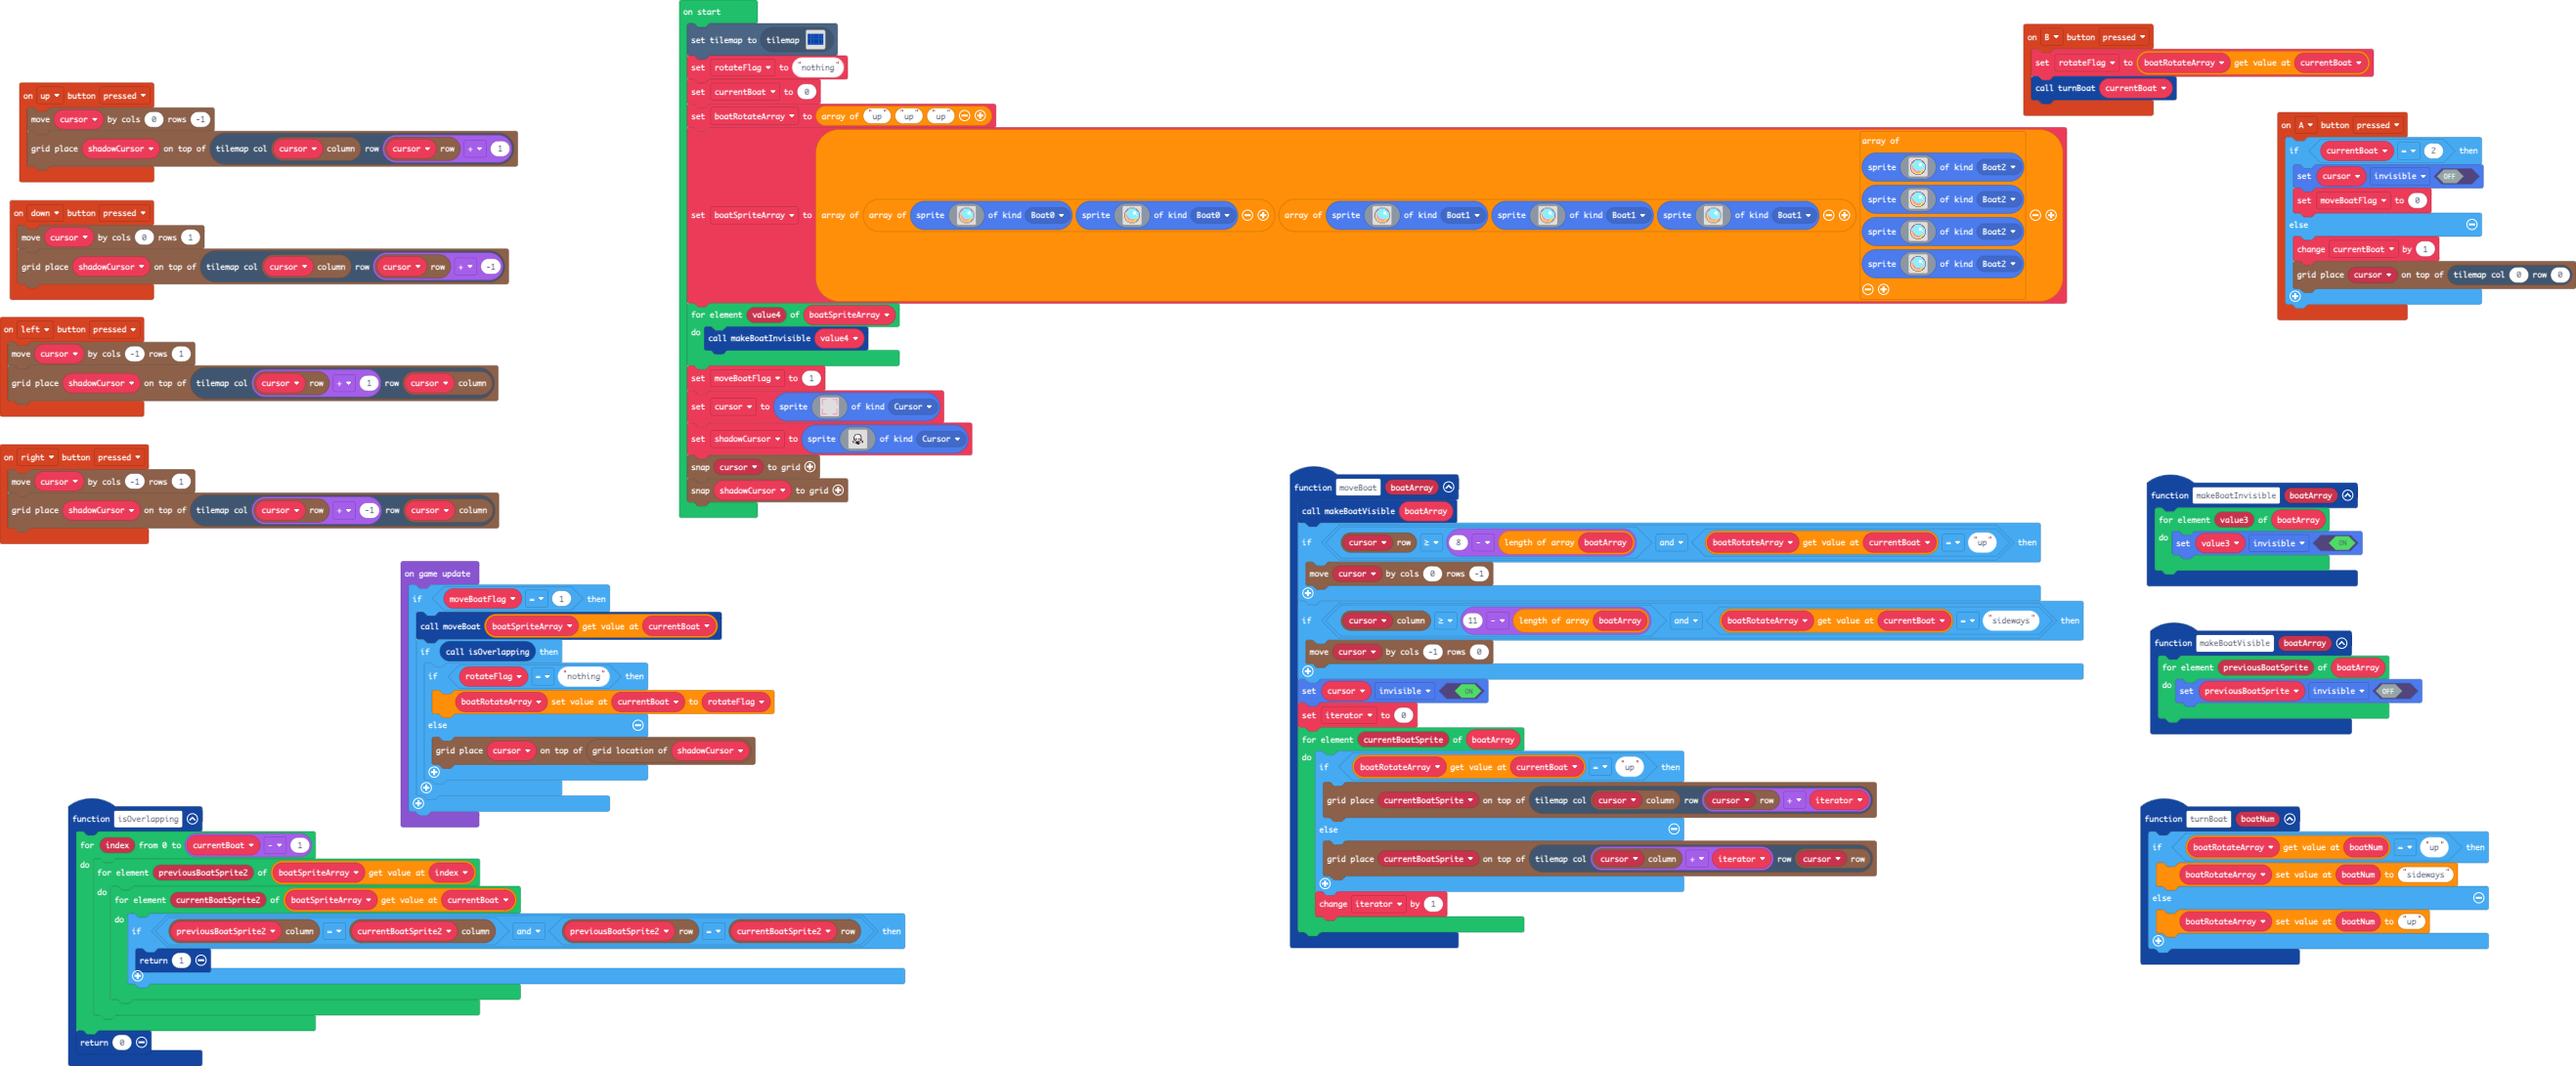
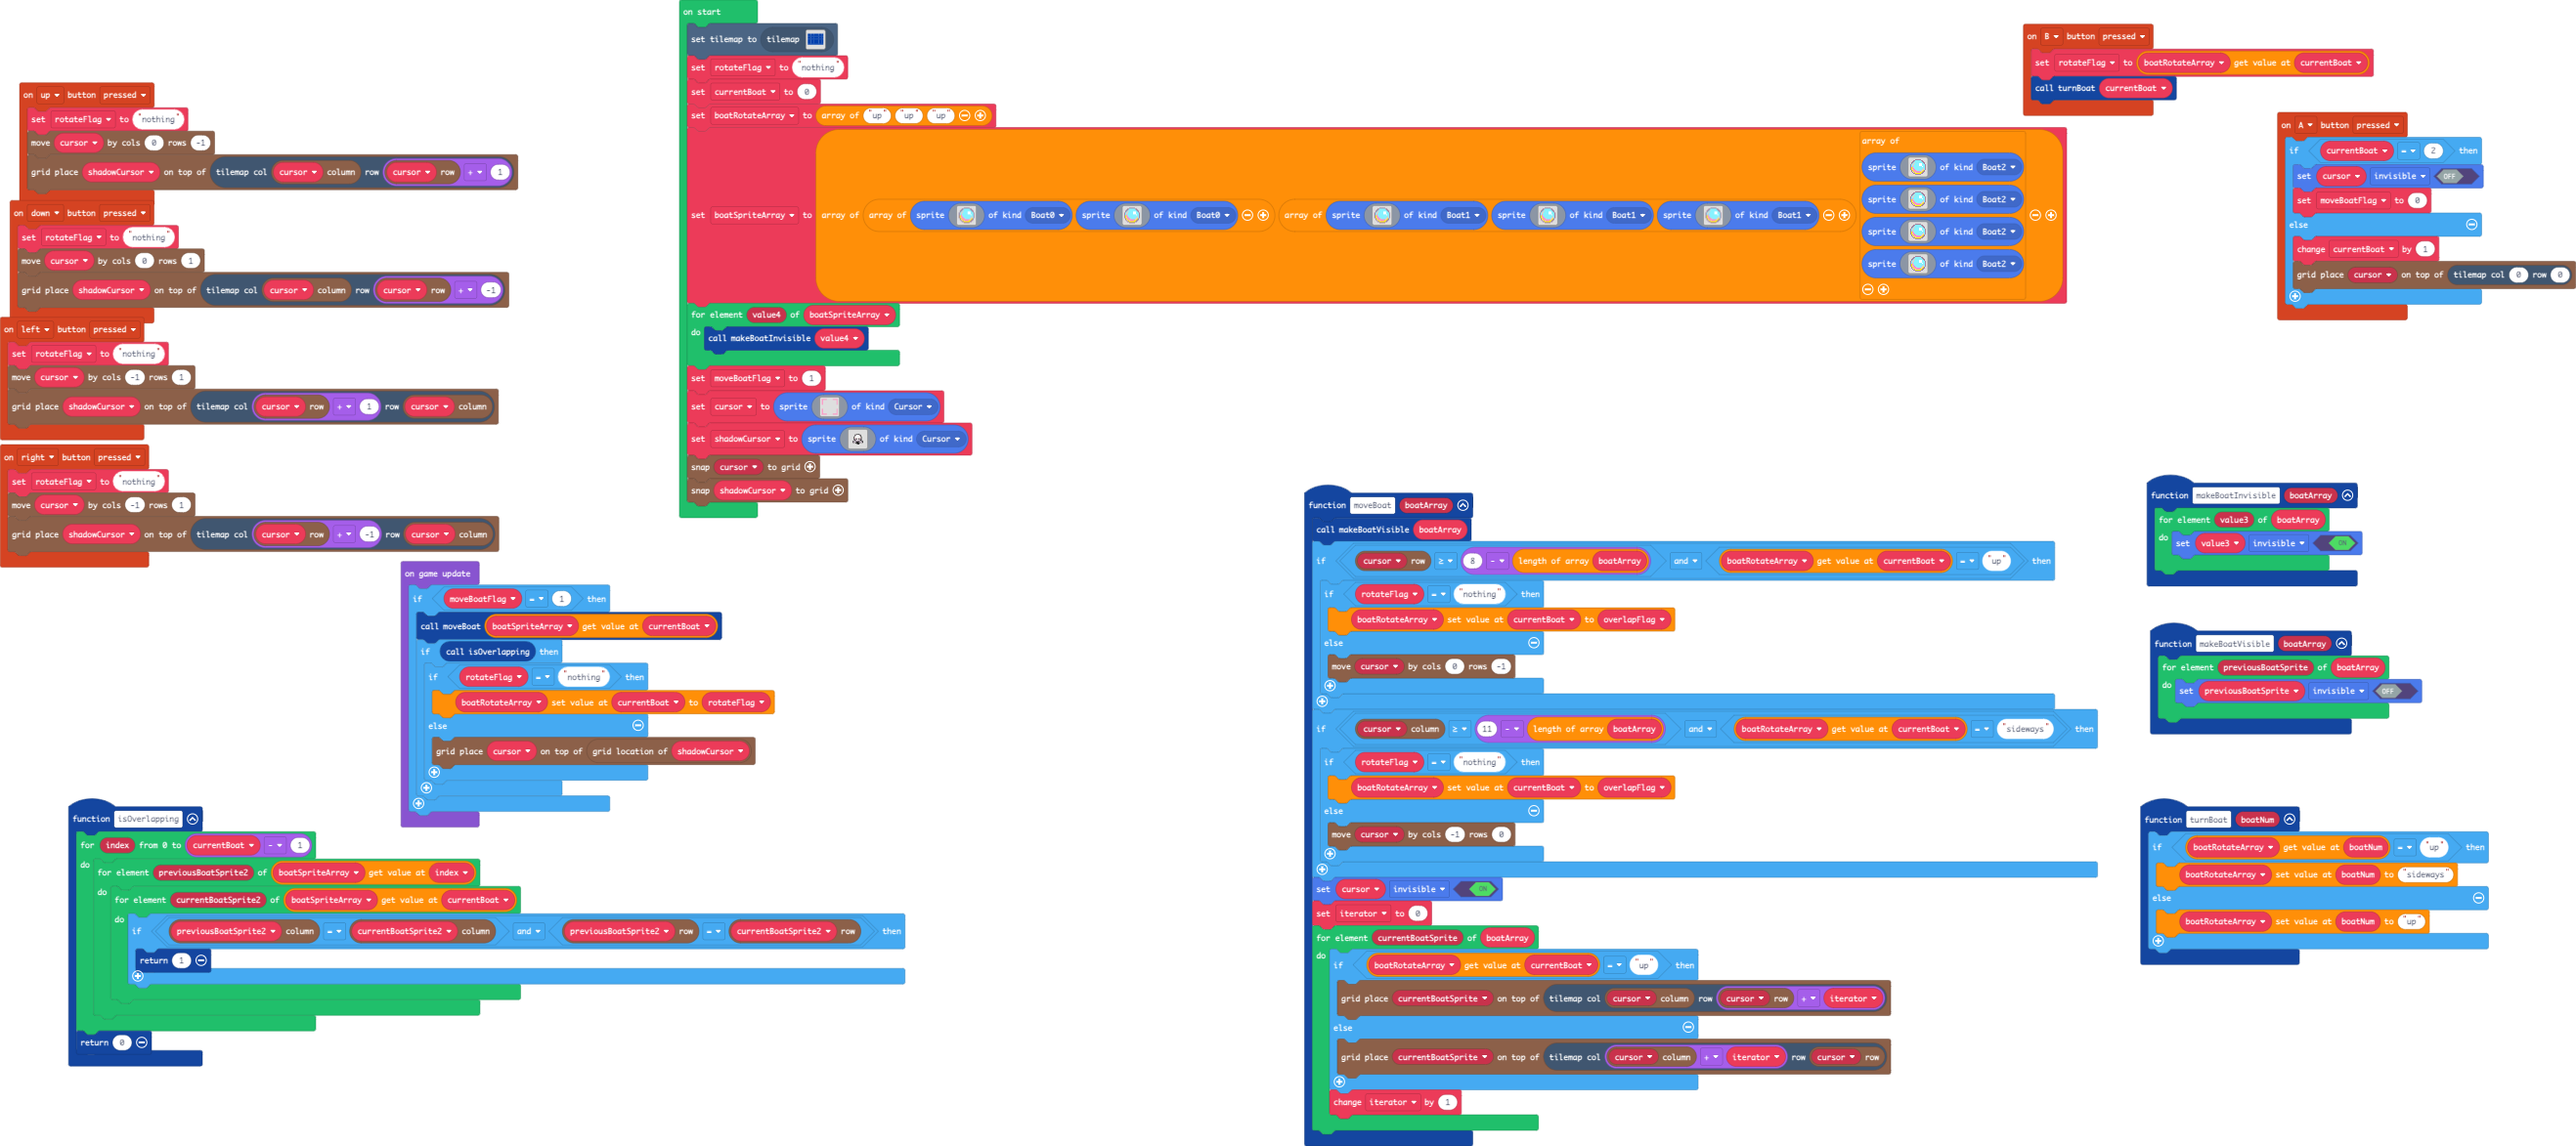
fixed rotate bug (bottom screen)

diff --git a/main.ts b/main.ts
@@ -5,6 +5,7 @@ namespace SpriteKind {
     export const Boat2 = SpriteKind.create()
 }
 controller.up.onEvent(ControllerButtonEvent.Pressed, function () {
+    rotateFlag = "nothing"
     grid.move(cursor, 0, -1)
     grid.place(shadowCursor, tiles.getTileLocation(grid.spriteCol(cursor), grid.spriteRow(cursor) + 1))
 })
@@ -27,20 +28,31 @@ controller.A.onEvent(ControllerButtonEvent.Pressed, function () {
     }
 })
 controller.left.onEvent(ControllerButtonEvent.Pressed, function () {
+    rotateFlag = "nothing"
     grid.move(cursor, -1, 1)
     grid.place(shadowCursor, tiles.getTileLocation(grid.spriteRow(cursor) + 1, grid.spriteCol(cursor)))
 })
 controller.right.onEvent(ControllerButtonEvent.Pressed, function () {
+    rotateFlag = "nothing"
     grid.move(cursor, -1, 1)
     grid.place(shadowCursor, tiles.getTileLocation(grid.spriteRow(cursor) + -1, grid.spriteCol(cursor)))
 })
 function moveBoat (boatArray: any[]) {
+    let overlapFlag = ""
     makeBoatVisible(boatArray)
     if (grid.spriteRow(cursor) >= 8 - boatArray.length && boatRotateArray[currentBoat] == "up") {
-        grid.move(cursor, 0, -1)
+        if (rotateFlag == "nothing") {
+            boatRotateArray[currentBoat] = overlapFlag
+        } else {
+            grid.move(cursor, 0, -1)
+        }
     }
     if (grid.spriteCol(cursor) >= 11 - boatArray.length && boatRotateArray[currentBoat] == "sideways") {
-        grid.move(cursor, -1, 0)
+        if (rotateFlag == "nothing") {
+            boatRotateArray[currentBoat] = overlapFlag
+        } else {
+            grid.move(cursor, -1, 0)
+        }
     }
     cursor.setFlag(SpriteFlag.Invisible, true)
     iterator = 0
@@ -54,6 +66,7 @@ function moveBoat (boatArray: any[]) {
     }
 }
 controller.down.onEvent(ControllerButtonEvent.Pressed, function () {
+    rotateFlag = "nothing"
     grid.move(cursor, 0, 1)
     grid.place(shadowCursor, tiles.getTileLocation(grid.spriteCol(cursor), grid.spriteRow(cursor) + -1))
 })
